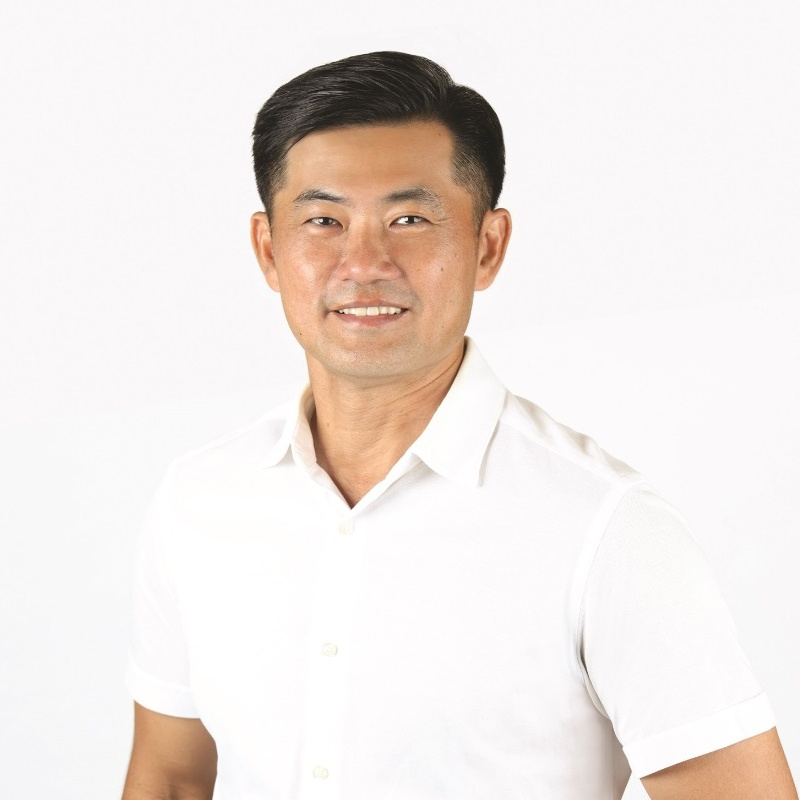
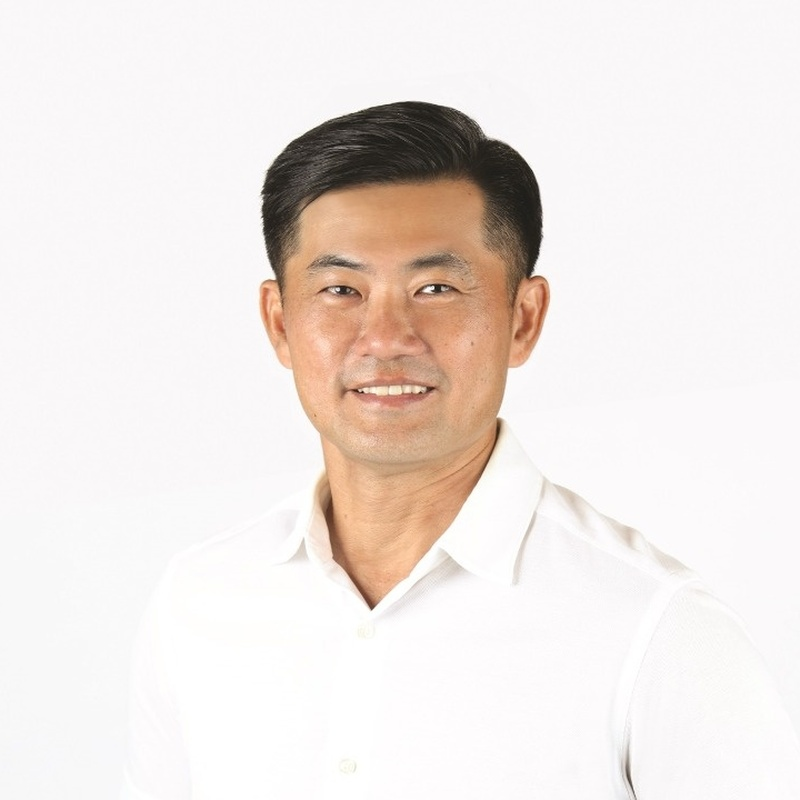
feat: apply Update #4 - sponsor layout, GOH photo crop, Chinese copy fixes

diff --git a/src/components/PartnersSection.tsx b/src/components/PartnersSection.tsx
@@ -1,6 +1,6 @@
 import { motion } from 'motion/react';
 import { Language } from '../types';
-import { TRANSLATIONS, PARTNER_LOGOS } from '../data';
+import { TRANSLATIONS, STRATEGIC_PARTNER, SPONSORS_AND_PARTNERS } from '../data';
 
 interface PartnersSectionProps {
   language: Language;
@@ -32,43 +32,83 @@ export default function PartnersSection({ language }: PartnersSectionProps) {
             {t.partnersBadge}
           </span>
           <h2 className="text-3xl sm:text-4xl font-display font-extrabold text-white tracking-tight">
-            {isEn ? 'Partners & Sponsors' : '合作伙伴与赞助机构'}
+            {t.partnersTitle}
           </h2>
           <p className="text-xs sm:text-sm text-blue-200/80 max-w-xl mx-auto">
             {t.hostPartnerNote}
           </p>
         </motion.div>
 
-        {/* Unified Partner & Sponsor Logos Grid (Centered in EDM Order) */}
+        {/* 1) Strategic Partner Group (Separate, Centered) */}
+        <motion.div
+          initial={{ opacity: 0, y: 20 }}
+          whileInView={{ opacity: 1, y: 0 }}
+          viewport={{ once: true, margin: '-60px' }}
+          transition={{ duration: 0.5 }}
+          className="space-y-4"
+        >
+          <div className="text-center">
+            <h3 className="text-xs sm:text-sm font-semibold text-blue-300/90 uppercase tracking-widest font-mono">
+              {t.strategicPartner}
+            </h3>
+          </div>
+          <div className="flex justify-center">
+            <motion.div
+              initial={{ opacity: 0, scale: 0.95 }}
+              whileInView={{ opacity: 1, scale: 1 }}
+              viewport={{ once: true }}
+              transition={{ duration: 0.35 }}
+              className="w-56 sm:w-64 bg-white rounded-2xl p-4 sm:p-5 shadow-sm hover:shadow-xl hover:-translate-y-1 transition-all duration-300 flex items-center justify-center h-28 sm:h-32 border border-white/90 group"
+            >
+              <img
+                src={STRATEGIC_PARTNER.logo}
+                alt={isEn ? STRATEGIC_PARTNER.name : (STRATEGIC_PARTNER.nameZh || STRATEGIC_PARTNER.name)}
+                title={isEn ? STRATEGIC_PARTNER.name : (STRATEGIC_PARTNER.nameZh || STRATEGIC_PARTNER.name)}
+                className="max-h-16 sm:max-h-20 max-w-[85%] w-auto object-contain transition-transform duration-300 group-hover:scale-105"
+                loading="lazy"
+              />
+            </motion.div>
+          </div>
+        </motion.div>
+
+        {/* 2) Sponsors and Partners Group (Exact EDM Order: Hyperforge -> GKC -> Keppel -> Steelcore -> Chagee -> Huawei -> YueWen -> Zall -> CSAIA -> Fuschia Lane -> Teahills) */}
         <motion.div
           initial={{ opacity: 0, y: 24 }}
           whileInView={{ opacity: 1, y: 0 }}
           viewport={{ once: true, margin: '-60px' }}
           transition={{ duration: 0.6, delay: 0.1 }}
-          className="max-w-[1080px] mx-auto"
+          className="space-y-5 pt-2"
         >
-          <div className="flex flex-wrap justify-center gap-3.5 sm:gap-4 lg:gap-4 items-stretch">
-            {PARTNER_LOGOS.map((partner, index) => {
-              const displayName = isEn ? partner.name : (partner.nameZh || partner.name);
-              return (
-                <motion.div
-                  key={partner.id}
-                  initial={{ opacity: 0, scale: 0.95 }}
-                  whileInView={{ opacity: 1, scale: 1 }}
-                  viewport={{ once: true }}
-                  transition={{ duration: 0.35, delay: index * 0.04 }}
-                  className="w-[calc(50%-0.5rem)] sm:w-44 md:w-44 lg:w-40 xl:w-40 bg-white rounded-2xl p-3 sm:p-4 shadow-sm hover:shadow-xl hover:-translate-y-1 transition-all duration-300 flex items-center justify-center h-24 sm:h-28 border border-white/90 group"
-                >
-                  <img
-                    src={partner.logo}
-                    alt={displayName}
-                    title={displayName}
-                    className="max-h-12 sm:max-h-14 max-w-[85%] w-auto object-contain transition-transform duration-300 group-hover:scale-105"
-                    loading="lazy"
-                  />
-                </motion.div>
-              );
-            })}
+          <div className="text-center">
+            <h3 className="text-xs sm:text-sm font-semibold text-blue-300/90 uppercase tracking-widest font-mono">
+              {t.sponsorsAndPartners}
+            </h3>
+          </div>
+
+          <div className="max-w-[860px] mx-auto">
+            <div className="flex flex-wrap justify-center gap-3.5 sm:gap-4 md:gap-5 items-stretch">
+              {SPONSORS_AND_PARTNERS.map((partner, index) => {
+                const displayName = isEn ? partner.name : (partner.nameZh || partner.name);
+                return (
+                  <motion.div
+                    key={partner.id}
+                    initial={{ opacity: 0, scale: 0.95 }}
+                    whileInView={{ opacity: 1, scale: 1 }}
+                    viewport={{ once: true }}
+                    transition={{ duration: 0.35, delay: index * 0.03 }}
+                    className="w-[calc(50%-0.5rem)] sm:w-44 md:w-48 bg-white rounded-2xl p-3 sm:p-4 shadow-sm hover:shadow-xl hover:-translate-y-1 transition-all duration-300 flex items-center justify-center h-24 sm:h-28 border border-white/90 group"
+                  >
+                    <img
+                      src={partner.logo}
+                      alt={displayName}
+                      title={displayName}
+                      className="max-h-12 sm:max-h-14 max-w-[85%] w-auto object-contain transition-transform duration-300 group-hover:scale-105"
+                      loading="lazy"
+                    />
+                  </motion.div>
+                );
+              })}
+            </div>
           </div>
         </motion.div>
 

diff --git a/src/data.ts b/src/data.ts
@@ -13,7 +13,7 @@ export const EVENT_BASICS_2026: EventDetails = {
   dateEn: '24 October 2026 (Saturday), 11:00am – 5:00pm',
   dateZh: '2026年10月24日（星期六），上午11:00 – 下午5:00',
   venueEn: 'Temasek Polytechnic Auditorium 1, 21 Tampines Ave 1, Singapore 529757',
-  venueZh: '淡马锡理工学院第一大礼堂，新加坡淡马锡大道21号，邮编529757',
+  venueZh: '淡马锡理工学院第一大礼堂，21 Tampines Ave 1, Singapore 529757',
   themeEn: 'Riding the New Wave: Future of Work Reimagined',
   themeZh: '乘风破浪：共创未来新职场'
 };
@@ -39,7 +39,7 @@ export const FORUM_THEME_2026 = {
 
 export const GOH_2026: GOHPerson = {
   nameEn: 'Mr Desmond Tan Kok Ming',
-  nameZh: '陈国明',
+  nameZh: '陈国明先生',
   postEn: "Senior Minister of State, Prime Minister's Office; Deputy Secretary-General, NTUC",
   postZh: '总理公署高级政务部长；全国职工总会副秘书长',
   mpEn: 'MP for Pasir Ris-Changi GRC (Pasir Ris Central)',
@@ -54,7 +54,7 @@ export const GOH_2026: GOHPerson = {
 
 export const CEO_2026: CEOPerson = {
   nameEn: 'Ms Kwek Poh Heok',
-  nameZh: '郭碧叶',
+  nameZh: '郭碧叶女士',
   postEn: 'Chief Executive Officer, Business China',
   postZh: '通商中国总裁',
   appointmentEn: 'Appointed CEO of Business China on 1 July 2025',
@@ -194,7 +194,7 @@ export const RECOMMENDED_FINAL_TIMELINE_2026: TimelineItem[] = [
     id: 'item-6',
     time: '13:15 – 13:20',
     titleEn: 'Launch Ceremony of China Ready Executive Programme',
-    titleZh: '中国通高管项目启动仪式（通商中国与淡马锡理工学院合办）',
+    titleZh: '在职培训课程启动仪式（通商中国与淡马锡理工学院合办）',
     type: 'ceremony'
   },
   {
@@ -217,7 +217,7 @@ export const RECOMMENDED_FINAL_TIMELINE_2026: TimelineItem[] = [
     descriptionEn: 'Technological disruption, demographic changes, and deeper regional connectivity are reshaping the way work is defined across Asia. For young individuals, this equates to entering a landscape where jobs are rapidly being redesigned. This fireside chat with SMS Desmond Tan will explore what this changing environment means for the next generation, and what questions young people should be asking as they prepare for the future.',
     descriptionZh: '本区域内的工作范式正深受技术变革、人口结构变化及区域互联互通深化等因素的影响而持续重塑。本次与总理公署高级政务部长陈国明先生的炉边对话，将聚焦这一变动环境对下一代所带来的启示，并探讨青年在面向未来时应提出哪些关键问题。',
     speakerEn: 'SMS Desmond Tan Kok Ming',
-    speakerZh: '陈国明高级政务部长',
+    speakerZh: '陈国明先生',
     speakerRoleEn: 'Guest of Honour & Fireside Chat Speaker',
     speakerRoleZh: '主礼嘉宾兼炉边对话演讲嘉宾',
     speakerPhoto: '/desmond-tan-headshot.jpg',
@@ -329,16 +329,17 @@ export const FAQ_ITEMS: FAQItem[] = [];
 export const PARTNERS: Partner[] = [];
 
 // =========================================================================
-// OFFICIAL PARTNER & SPONSOR LOGOS (Unified Single Grid in EDM Order)
-// Easily extensible: Add new logo objects to the end of this list.
+// OFFICIAL PARTNER & SPONSOR LOGOS (Two Groups: Strategic Partner & Sponsors/Partners)
+// Structured for easy swap and extension.
 // =========================================================================
-export const PARTNER_LOGOS: PartnerLogo[] = [
-  {
-    id: 'nyc',
-    name: 'National Youth Council Singapore',
-    nameZh: '新加坡全国青年理事会',
-    logo: '/images/partners/01-nyc.png',
-  },
+export const STRATEGIC_PARTNER: PartnerLogo = {
+  id: 'nyc',
+  name: 'National Youth Council Singapore',
+  nameZh: '新加坡全国青年理事会',
+  logo: '/images/partners/01-nyc.png',
+};
+
+export const SPONSORS_AND_PARTNERS: PartnerLogo[] = [
   {
     id: 'hyperforge',
     name: 'Hyperforge',
@@ -356,6 +357,12 @@ export const PARTNER_LOGOS: PartnerLogo[] = [
     name: 'Keppel',
     nameZh: '吉宝',
     logo: '/images/partners/04-keppel.png',
+  },
+  {
+    id: 'steelcore',
+    name: 'Steelcore',
+    nameZh: 'Steelcore',
+    logo: '/images/partners/steelcore.png',
   },
   {
     id: 'chagee',
@@ -399,6 +406,11 @@ export const PARTNER_LOGOS: PartnerLogo[] = [
     nameZh: 'Teahills',
     logo: '/images/partners/11-teahills.jpg',
   },
+];
+
+export const PARTNER_LOGOS: PartnerLogo[] = [
+  STRATEGIC_PARTNER,
+  ...SPONSORS_AND_PARTNERS,
 ];
 
 export const TRANSLATIONS = {
@@ -452,6 +464,8 @@ export const TRANSLATIONS = {
     partnersBadge: 'Partners 合作伙伴',
     partnersTitle: 'Partners & Sponsors',
     partnersSubtitle: 'Proudly supported by our partner and sponsor organizations.',
+    strategicPartner: 'Strategic Partner',
+    sponsorsAndPartners: 'Sponsors and Partners',
     strategicPartners: 'Strategic Partners',
     singaporePartners: 'Singapore Partners',
     chinaPartners: 'China Partners',
@@ -513,6 +527,8 @@ export const TRANSLATIONS = {
     partnersBadge: 'Partners 合作伙伴',
     partnersTitle: '合作伙伴与赞助机构',
     partnersSubtitle: '衷心感谢各位合作伙伴与赞助机构的鼎力支持。',
+    strategicPartner: '战略合作伙伴',
+    sponsorsAndPartners: '赞助机构与合作伙伴',
     strategicPartners: '战略合作伙伴',
     singaporePartners: '新加坡合作伙伴',
     chinaPartners: '中国合作伙伴',

diff --git a/src/components/HeroSection.tsx b/src/components/HeroSection.tsx
@@ -91,7 +91,7 @@ export default function HeroSection({ language, onOpenRegister }: HeroSectionPro
                   ) : (
                     <>
                       <span>淡马锡理工学院第一大礼堂，</span>
-                      <span className="block">新加坡淡马锡大道21号，邮编529757</span>
+                      <span className="block">21 Tampines Ave 1, Singapore 529757</span>
                     </>
                   )}
                 </span>
